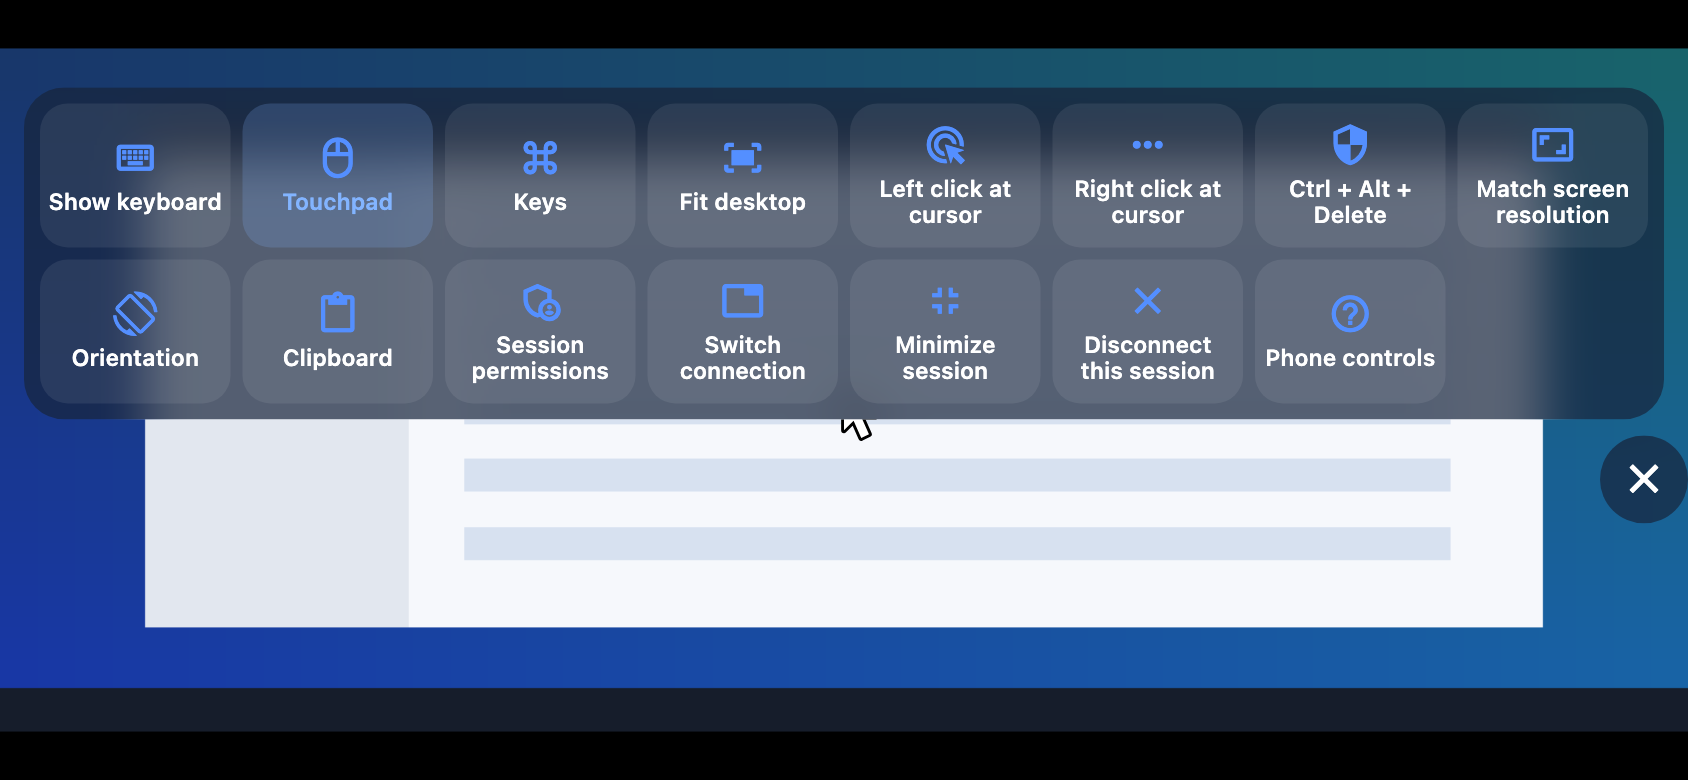
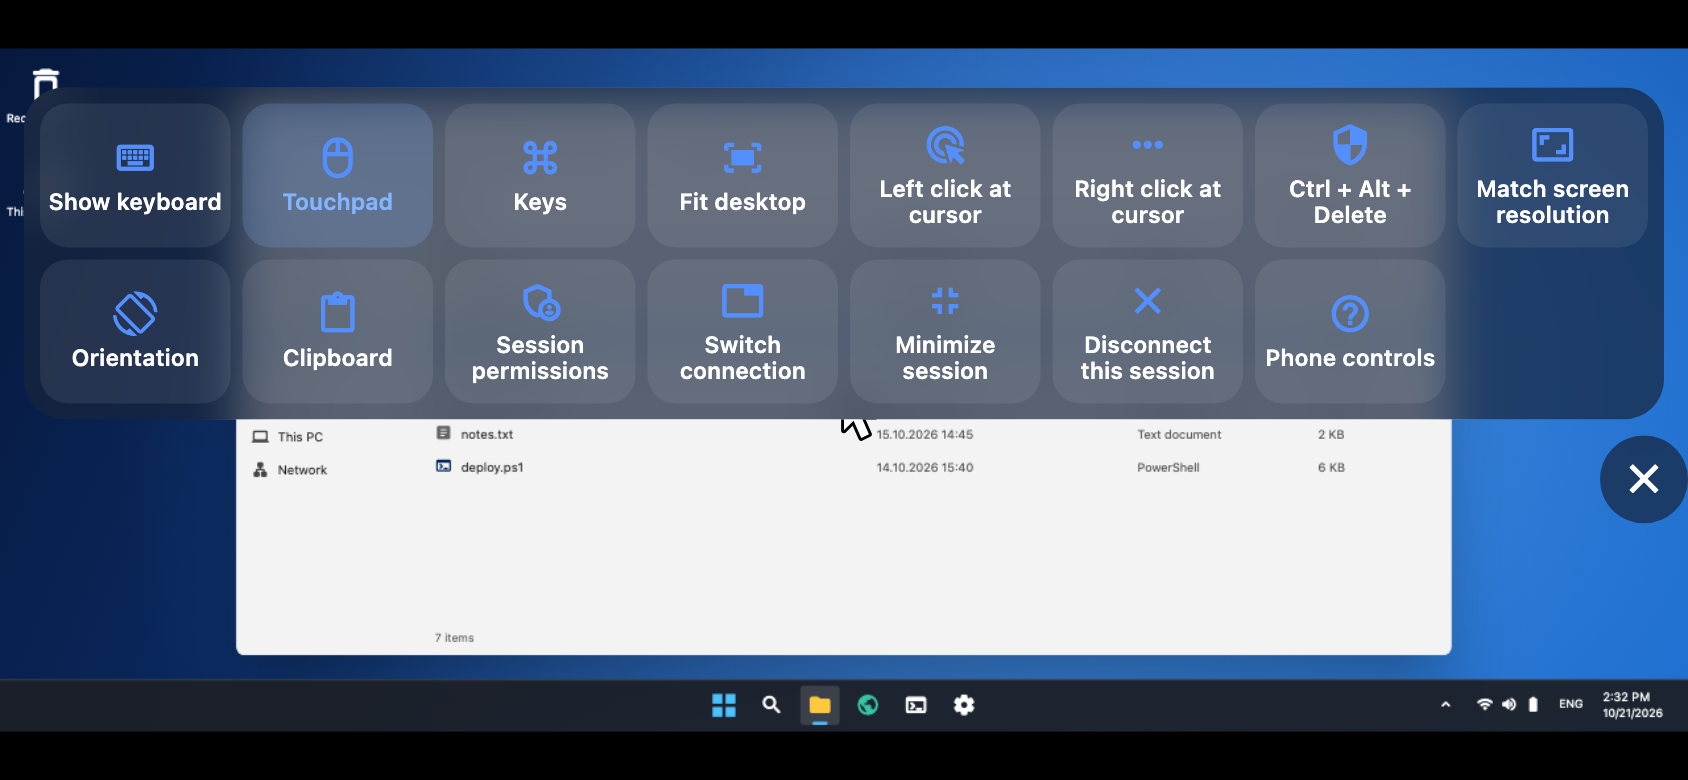
Phone RDP screenshots with a drawn Windows desktop

diff --git a/assets/guide-content.js b/assets/guide-content.js
@@ -275,8 +275,8 @@ export const guideSections = [
     }
   ],
   "note": {
-    "ru": "На планшете полный экран включается вручную, а автоматический режим выбирает прямое касание. При включённом экранном дикторе используется прямое касание и кнопка не скрывается. Перенаправление папок на телефоне недоступно. Для iOS доступна прежняя предварительная сборка 0.5.6 для Simulator на Mac; выпуск 0.6.3 для iOS отложен. На снимках настоящие виджеты с синтетическим кадром; пустая область зарезервирована для системной клавиатуры.",
-    "en": "Tablets enter fullscreen manually, and automatic mode selects direct touch. With a screen reader enabled, direct touch is used and the button stays visible. Phone folder redirection is unavailable. The earlier iOS 0.5.6 preview is available for Simulator on Mac; iOS 0.6.3 is deferred. Screenshots use real widgets with a synthetic frame; the empty area is reserved for the system keyboard."
+    "ru": "На планшете полный экран включается вручную, а автоматический режим выбирает прямое касание. При включённом экранном дикторе используется прямое касание и кнопка не скрывается. Перенаправление папок на телефоне недоступно. Для iOS доступна прежняя предварительная сборка 0.5.6 для Simulator на Mac; выпуск 0.6.3 для iOS отложен. На снимках настоящие виджеты; рабочий стол Windows нарисован синтетически. Пустая область зарезервирована для системной клавиатуры.",
+    "en": "Tablets enter fullscreen manually, and automatic mode selects direct touch. With a screen reader enabled, direct touch is used and the button stays visible. Phone folder redirection is unavailable. The earlier iOS 0.5.6 preview is available for Simulator on Mac; iOS 0.6.3 is deferred. Screenshots use real widgets with a drawn, synthetic Windows desktop; the empty area is reserved for the system keyboard."
   },
   "images": [
     {

diff --git a/guide/ru.md b/guide/ru.md
@@ -308,7 +308,7 @@ sudo dnf install ./consolecrypt.rpm
 
 > **Обратите внимание**
 >
-> На планшете полный экран включается вручную, а автоматический режим выбирает прямое касание. При включённом экранном дикторе используется прямое касание и кнопка не скрывается. Перенаправление папок на телефоне недоступно. Для iOS доступна прежняя предварительная сборка 0.5.6 для Simulator на Mac; выпуск 0.6.3 для iOS отложен. На снимках настоящие виджеты с синтетическим кадром; пустая область зарезервирована для системной клавиатуры.
+> На планшете полный экран включается вручную, а автоматический режим выбирает прямое касание. При включённом экранном дикторе используется прямое касание и кнопка не скрывается. Перенаправление папок на телефоне недоступно. Для iOS доступна прежняя предварительная сборка 0.5.6 для Simulator на Mac; выпуск 0.6.3 для iOS отложен. На снимках настоящие виджеты; рабочий стол Windows нарисован синтетически. Пустая область зарезервирована для системной клавиатуры.
 
 ![Рабочий стол и плавающая кнопка: постоянные панели скрыты.](../assets/guide/mobile-rdp-portrait-dark-ru.png)
 

diff --git a/guide/en.md b/guide/en.md
@@ -308,7 +308,7 @@ On a phone, the connected desktop automatically opens fullscreen. Touchpad is th
 
 > **Keep in mind**
 >
-> Tablets enter fullscreen manually, and automatic mode selects direct touch. With a screen reader enabled, direct touch is used and the button stays visible. Phone folder redirection is unavailable. The earlier iOS 0.5.6 preview is available for Simulator on Mac; iOS 0.6.3 is deferred. Screenshots use real widgets with a synthetic frame; the empty area is reserved for the system keyboard.
+> Tablets enter fullscreen manually, and automatic mode selects direct touch. With a screen reader enabled, direct touch is used and the button stays visible. Phone folder redirection is unavailable. The earlier iOS 0.5.6 preview is available for Simulator on Mac; iOS 0.6.3 is deferred. Screenshots use real widgets with a drawn, synthetic Windows desktop; the empty area is reserved for the system keyboard.
 
 ![Desktop and floating button, with permanent panels hidden.](../assets/guide/mobile-rdp-portrait-dark-en.png)
 
